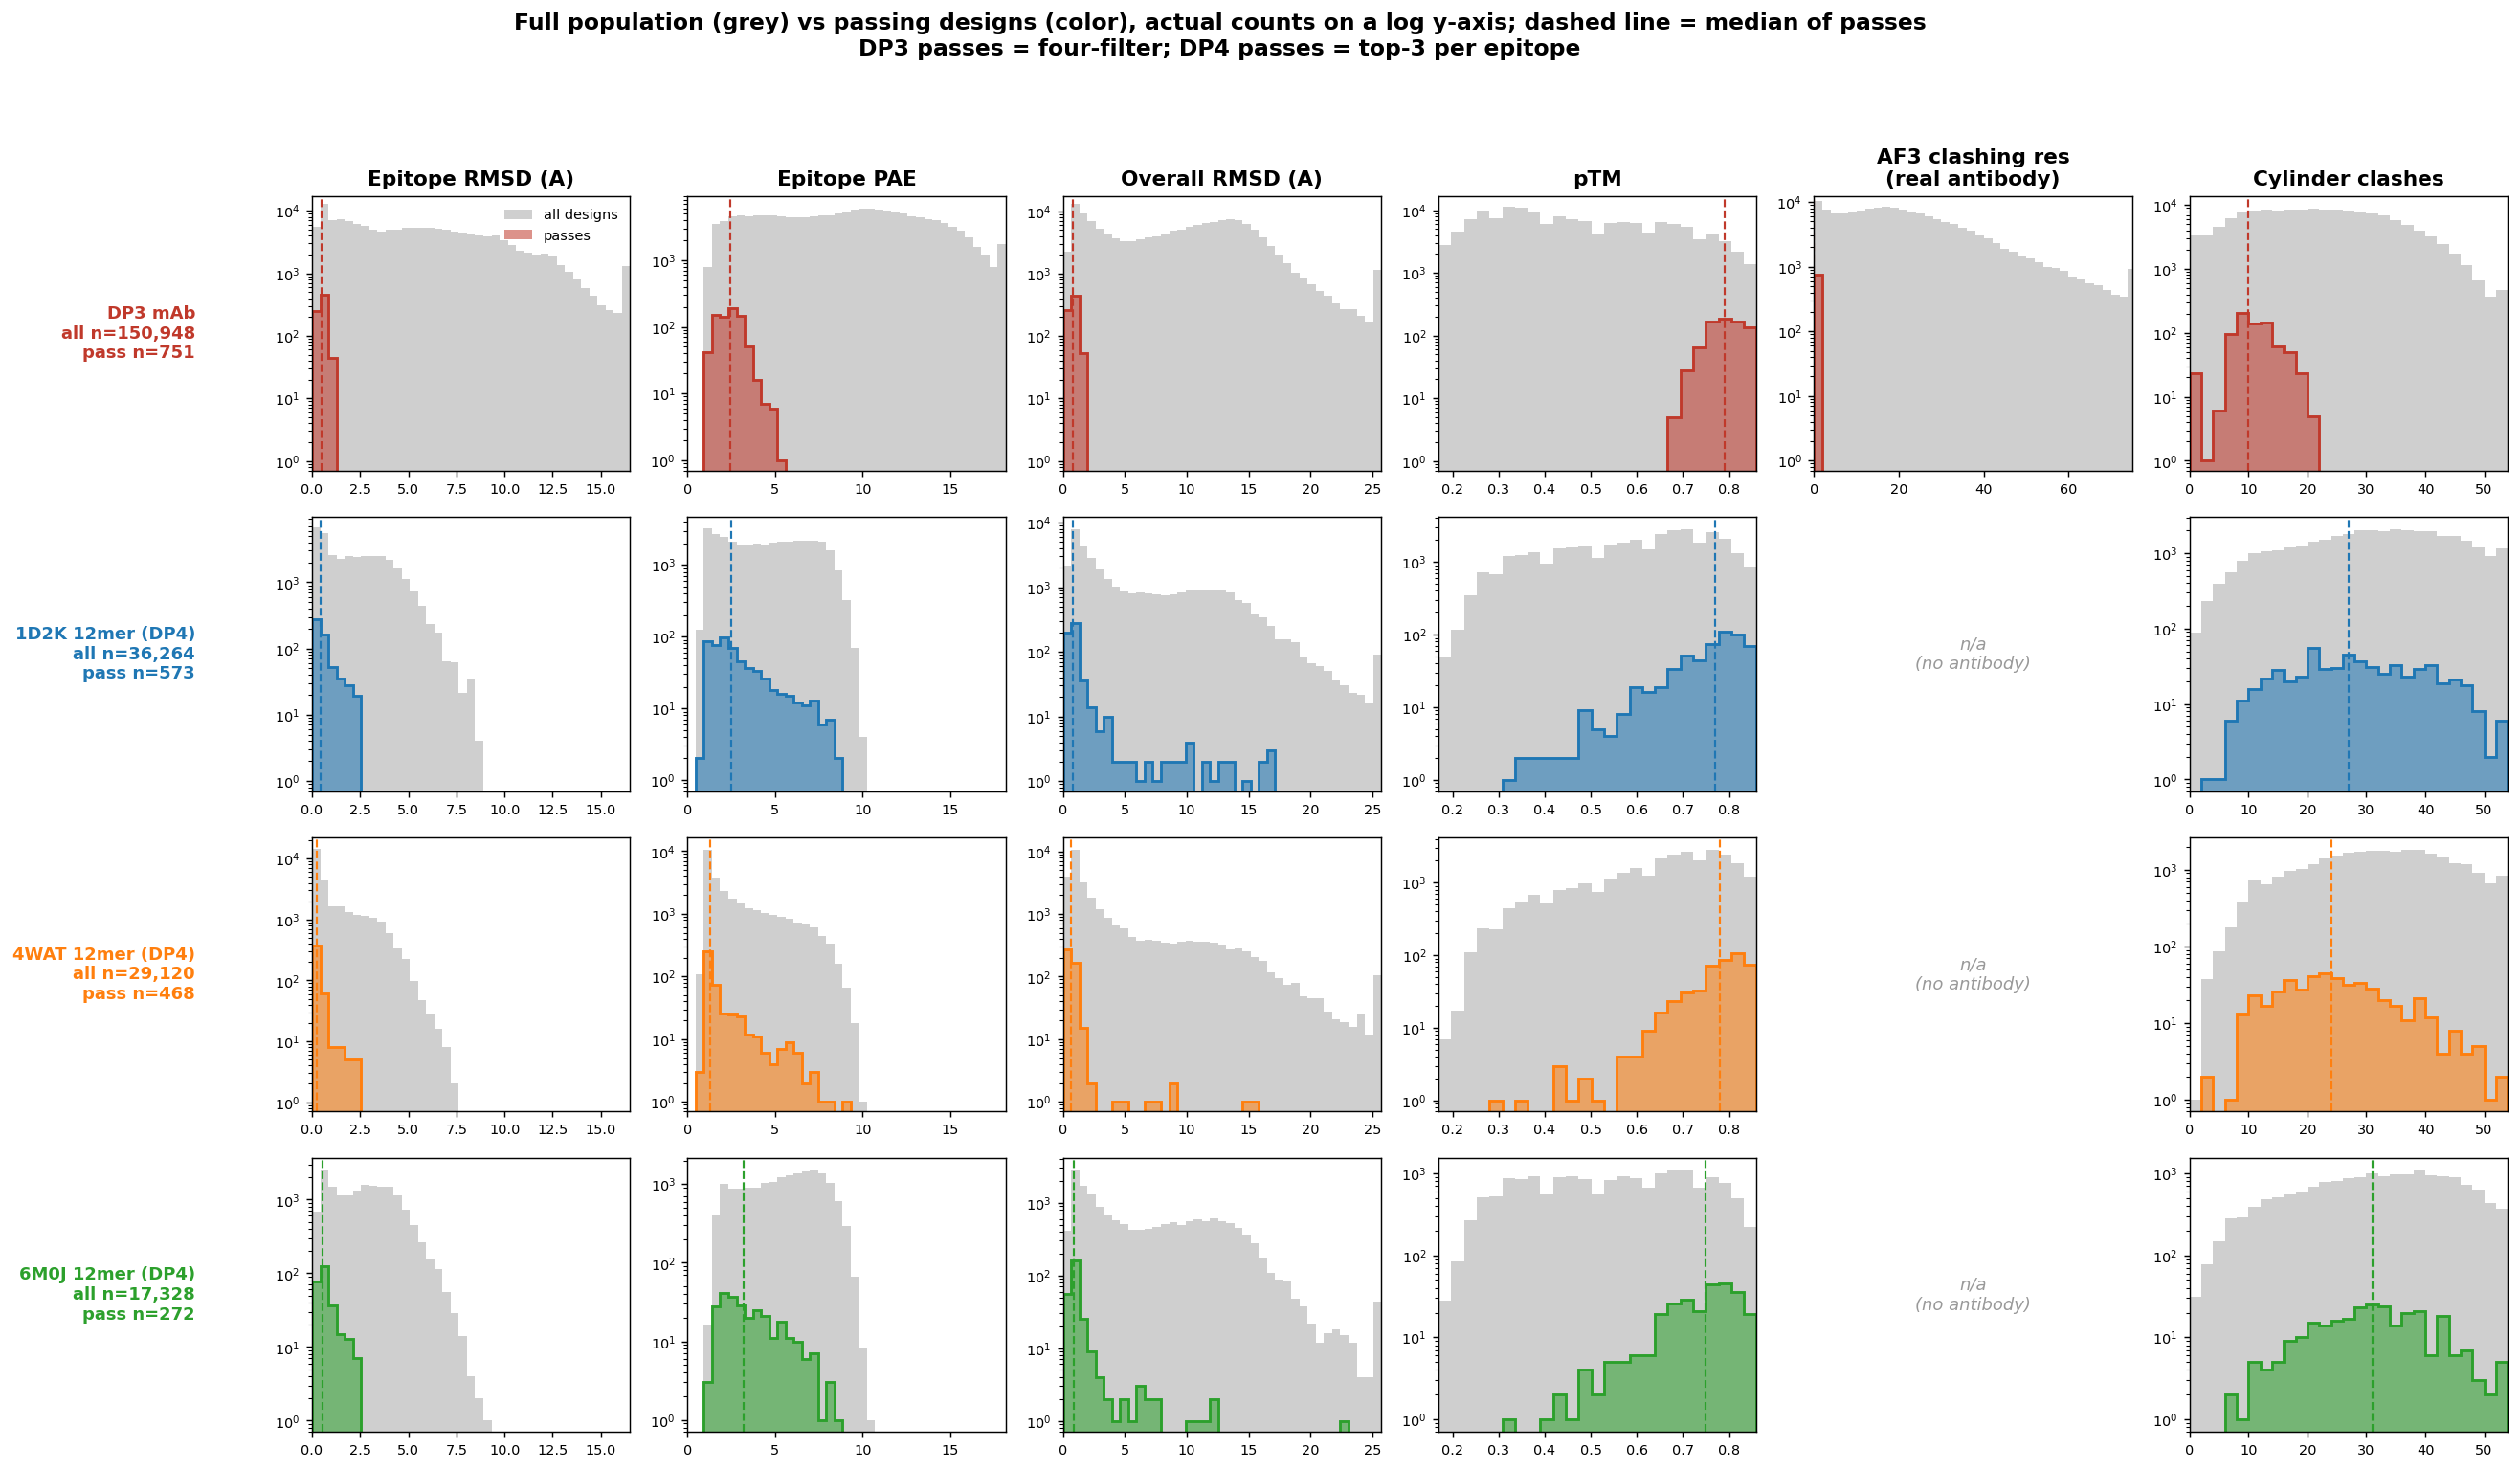
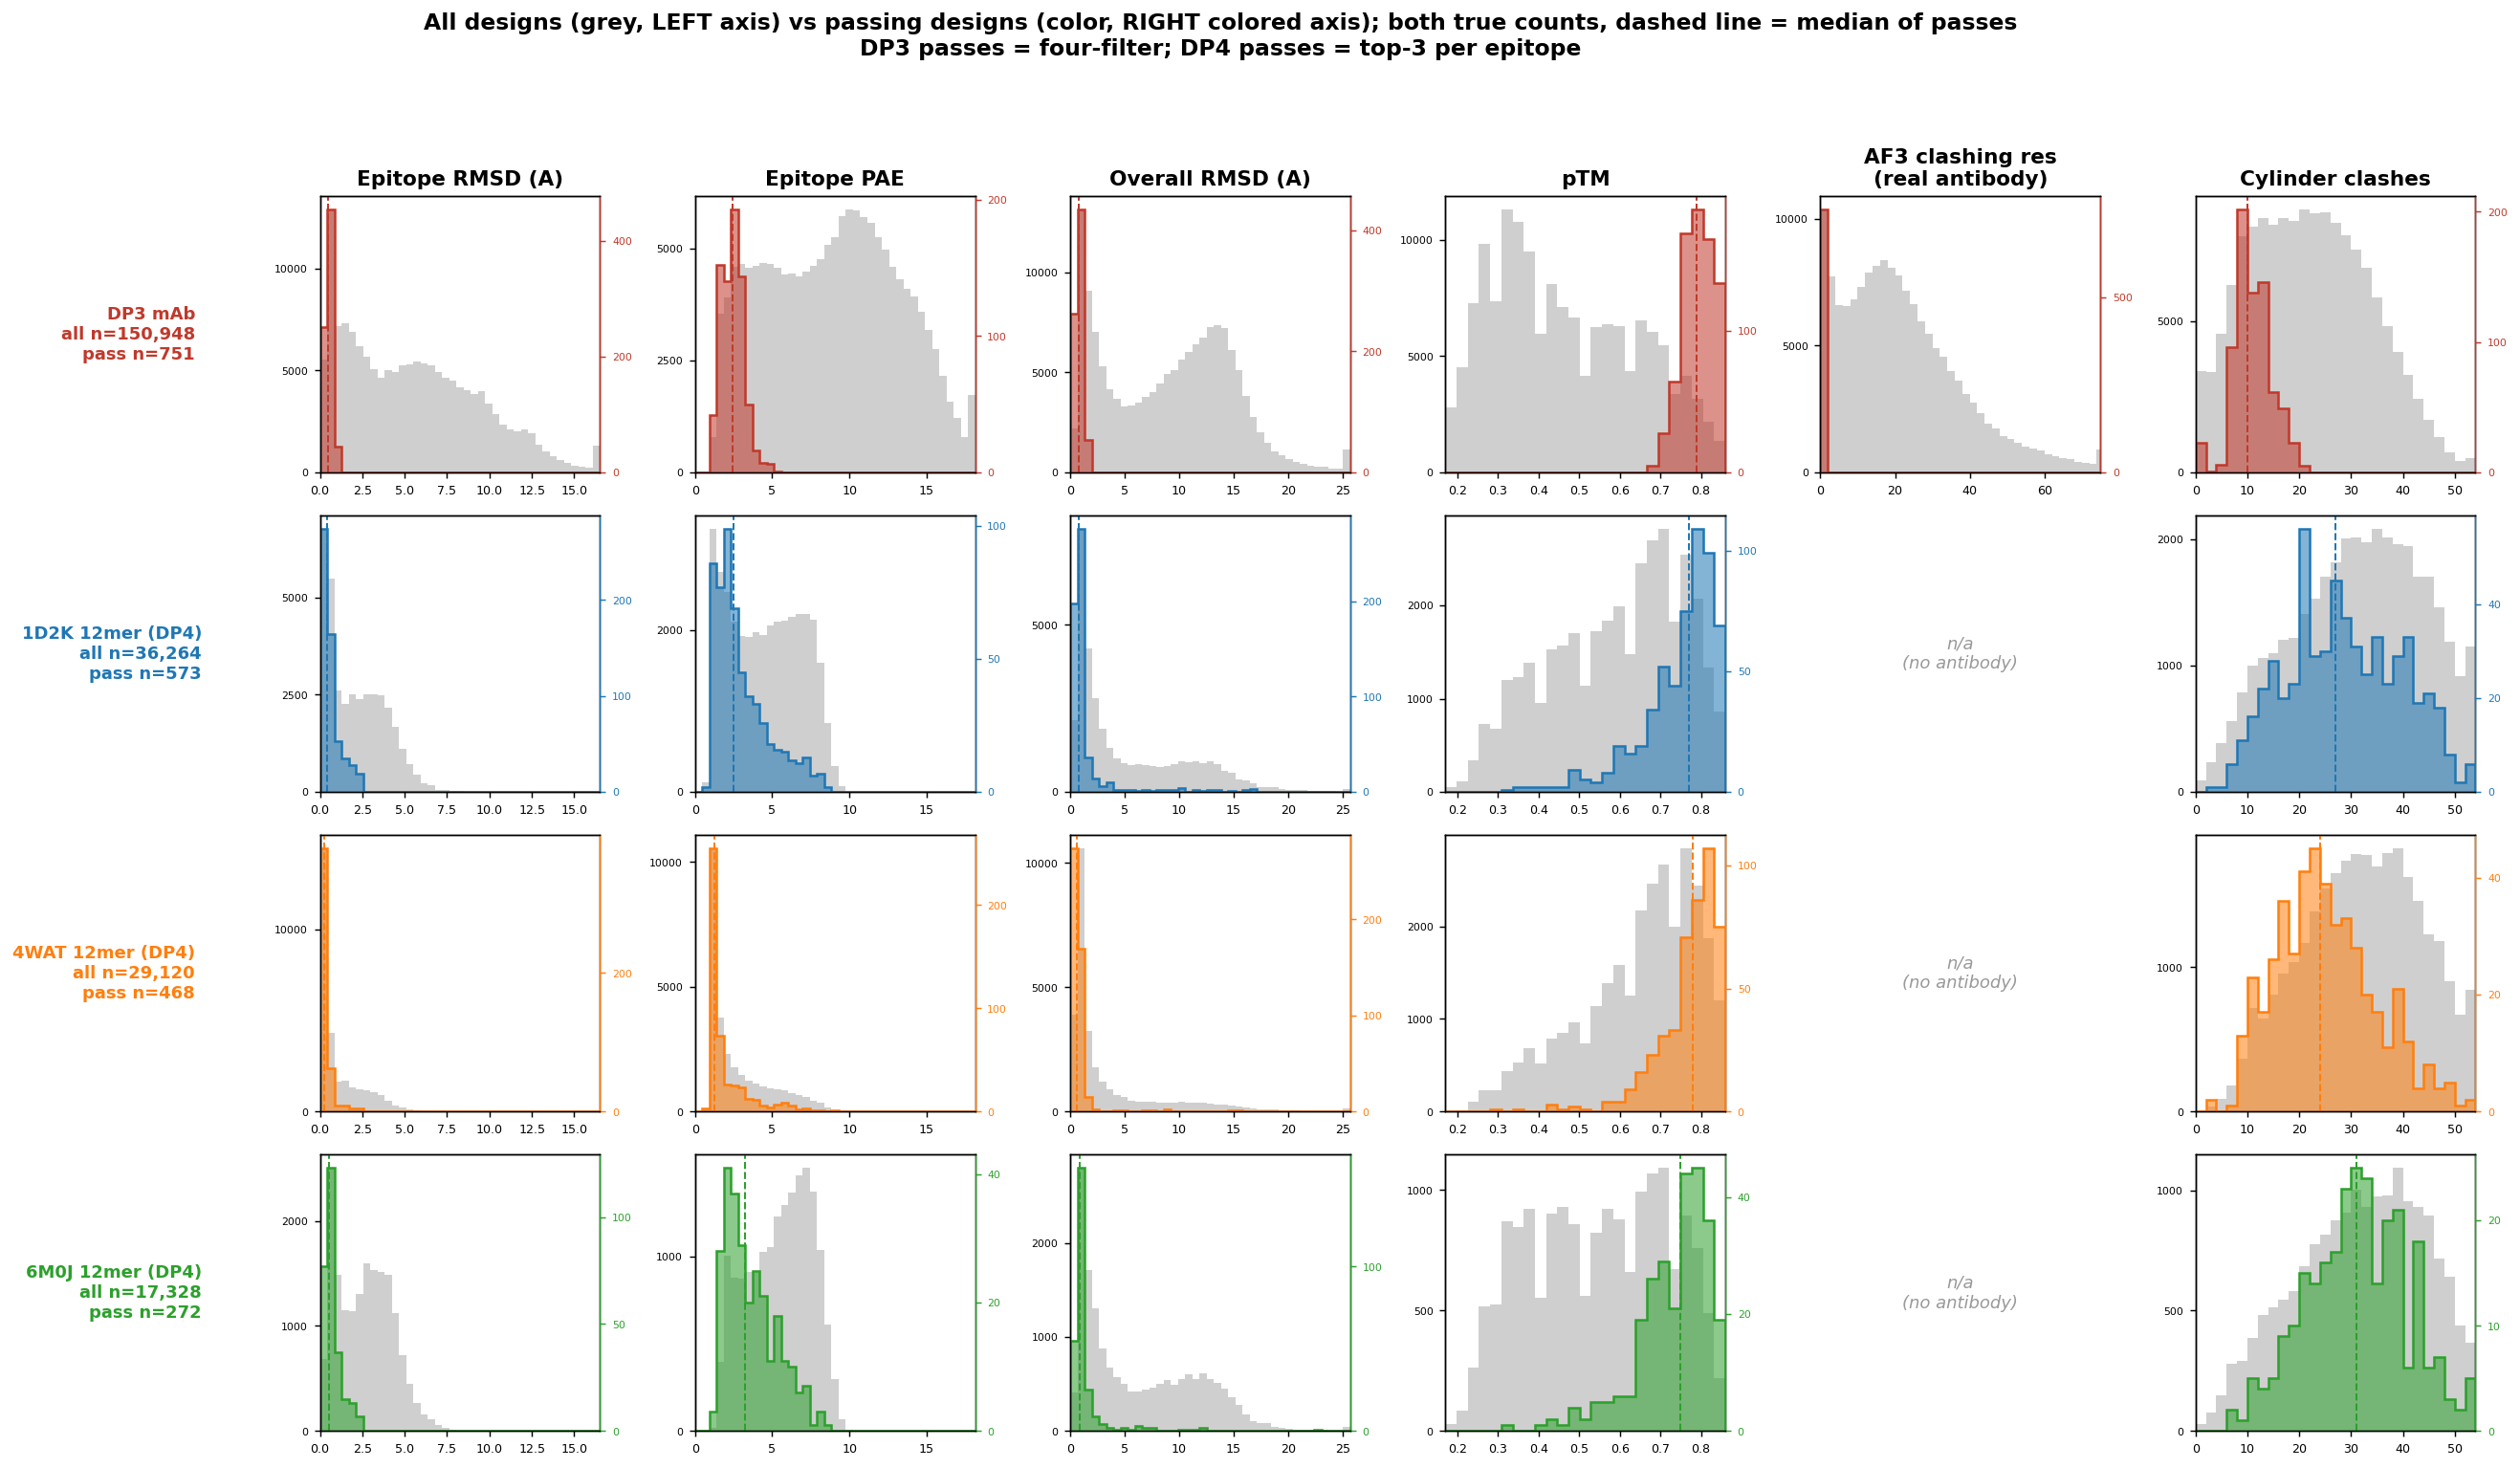
passes_overlay: twin linear count axes (all left, passes right colored)
Keep both distributions at true scale instead of log; right axis colored per row. Also: confirmed LAWSON.csv == dp2.parquet (canonical Lawson set), so the 26,870 missing-AF3 rows are inherent to his data; RFD1 section now compares per valid AF3 prediction and drops the [verify].

diff --git a/episcaf_analysis/viz/plot_passes_overlay.py b/episcaf_analysis/viz/plot_passes_overlay.py
@@ -63,20 +63,23 @@ for r,(name,alld,passd,color,hasab) in enumerate(rows):
         lo,hi=xlim[key]; e=edges(key,lo,hi)
         xa=np.clip(num(alld[key]).dropna().values,lo,hi)
         xp=np.clip(num(passd[key]).dropna().values,lo,hi) if key in passd else np.array([])
-        ax.hist(xa,bins=e,color="#cfcfcf",log=True,label="all designs")          # full population
+        ax.hist(xa,bins=e,color="#cfcfcf")                       # all designs, LEFT axis (counts)
+        ax.set_xlim(lo,hi); ax.tick_params(axis='x',labelsize=7); ax.tick_params(axis='y',labelsize=6)
+        ax.locator_params(axis='y',nbins=3)
         if len(xp):
-            ax.hist(xp,bins=e,histtype="stepfilled",color=color,alpha=0.55,log=True,label="passes")
-            ax.hist(xp,bins=e,histtype="step",color=color,lw=1.6,log=True)
-            ax.axvline(np.median(xp),ls="--",color=color,lw=1.2)
-        ax.set_xlim(lo,hi); ax.tick_params(labelsize=8)
-        ax.set_ylim(bottom=0.7)
-        if r==0 and c==0: ax.legend(frameon=False,fontsize=8,loc="upper right")
+            ax2=ax.twinx()                                       # passes, RIGHT axis (counts), colored
+            ax2.hist(xp,bins=e,color=color,alpha=0.55)
+            ax2.hist(xp,bins=e,histtype="step",color=color,lw=1.4)
+            ax2.axvline(np.median(xp),ls="--",color=color,lw=1.1)
+            ax2.set_xlim(lo,hi); ax2.locator_params(axis='y',nbins=3)
+            ax2.tick_params(axis='y',colors=color,labelsize=6)
+            ax2.spines['right'].set_color(color)
         if r==0: ax.set_title(label,fontsize=12,fontweight="bold")
         if c==0:
             ax.set_ylabel(f"{name}\nall n={len(alld):,}\npass n={len(passd):,}",color=color,
                           fontweight="bold",rotation=0,ha="right",va="center",labelpad=46,fontsize=10)
-fig.suptitle("Full population (grey) vs passing designs (color), actual counts on a log y-axis; "
-             "dashed line = median of passes\n"
+fig.suptitle("All designs (grey, LEFT axis) vs passing designs (color, RIGHT colored axis); "
+             "both true counts, dashed line = median of passes\n"
              "DP3 passes = four-filter; DP4 passes = top-3 per epitope",
              fontsize=13,fontweight="bold")
 fig.tight_layout(rect=[0.03,0,1,0.95])

diff --git a/manuscript/sections/rfd_comparison.tex b/manuscript/sections/rfd_comparison.tex
@@ -1,17 +1,15 @@
 \section{RFD1 versus RFD3 on the same epitopes}\label{sec:rfd}
 With the metrics reproduced, we compared the two backbone generators head to head: the same
 DP3 epitopes run through RFdiffusion1 (Lawson's set) and RFdiffusion3, each followed by
-ProteinMPNN and AlphaFold3, and scored against the identical four filters. How close the two
-look depends on the denominator. Counting every design generated, the pass rates are nearly
-identical: RFD1+MPNN \num{840}/\num{151232} ($0.56\%$) and RFD3+MPNN \num{751}/\num{150948}
-($0.50\%$). Counting only designs that returned an AlphaFold3 result, RFD1 is modestly
-higher: \num{840}/\num{124362} ($0.68\%$) versus \num{751}/\num{150936} ($0.50\%$). The
-difference is that the RFD1 set is missing AF3 results for \num{26870} designs, against just
-12 for RFD3; whether those are genuine AF3 failures or simply runs not yet completed
-determines which denominator is the fair one \texttt{[verify]}. Either way RFD3 is at least
-an even trade for RFD1 on this task, which is the basis for standardizing on RFD3 going
-forward. The per-metric distributions are broadly comparable (Fig.~\ref{fig:rfd}), with RFD3
-placing somewhat more mass at low epitope and overall RMSD.
+ProteinMPNN and AlphaFold3, and scored against the identical four filters. The RFD1 data here
+is Lawson's deposited set (\texttt{dp2.parquet}), which is missing AlphaFold3 results for
+\num{26870} of its \num{151232} designs; that is a property of his dataset rather than of our
+pipeline, so we compare over designs that actually have an AF3 result. On that basis the two
+are comparable, with RFD1 modestly higher: RFD1+MPNN passes \num{840}/\num{124362}
+($0.68\%$) and RFD3+MPNN \num{751}/\num{150936} ($0.50\%$). RFD3 is therefore at least an
+even trade for RFD1 on this task, which is the basis for standardizing on RFD3 going forward.
+The per-metric distributions are broadly comparable (Fig.~\ref{fig:rfd}), with RFD3 placing
+somewhat more mass at low epitope and overall RMSD.
 
 \begin{figure}[h]\centering
 \figorbox{rfd1_vs_rfd3.png}{1.0}

diff --git a/manuscript/sections/results.tex b/manuscript/sections/results.tex
@@ -142,11 +142,11 @@ reference for what a tolerable cylinder count looks like (the DP3 passing range)
 
 \begin{figure}[h]\centering
 \figorbox{passes_overlay.png}{1.0}
-\caption{Full design population (grey) and passing designs (color) in actual counts on a log
-$y$-axis, per metric and per row; the dashed line marks the median of the passes. The log
-count axis keeps both the full population and the much smaller passing set visible together,
-so one can see where selection lands and the shape of the accepted distribution. DP3 passes
-are the four-filter set; DP4 passes are the top 3 per epitope by composite score. Regenerated
-by \texttt{episcaf\_analysis/viz/plot\_passes\_overlay.py}.}
+\caption{All designs (grey, left axis) and passing designs (color, right colored axis), both
+in true counts, per metric and per row; the dashed line marks the median of the passes. The
+twin axes keep the full population and the much smaller passing set each at its own scale, so
+the shape of the accepted distribution and where it lands are both visible. DP3 passes are
+the four-filter set; DP4 passes are the top 3 per epitope by composite score. Regenerated by
+\texttt{episcaf\_analysis/viz/plot\_passes\_overlay.py}.}
 \label{fig:overlay}
 \end{figure}